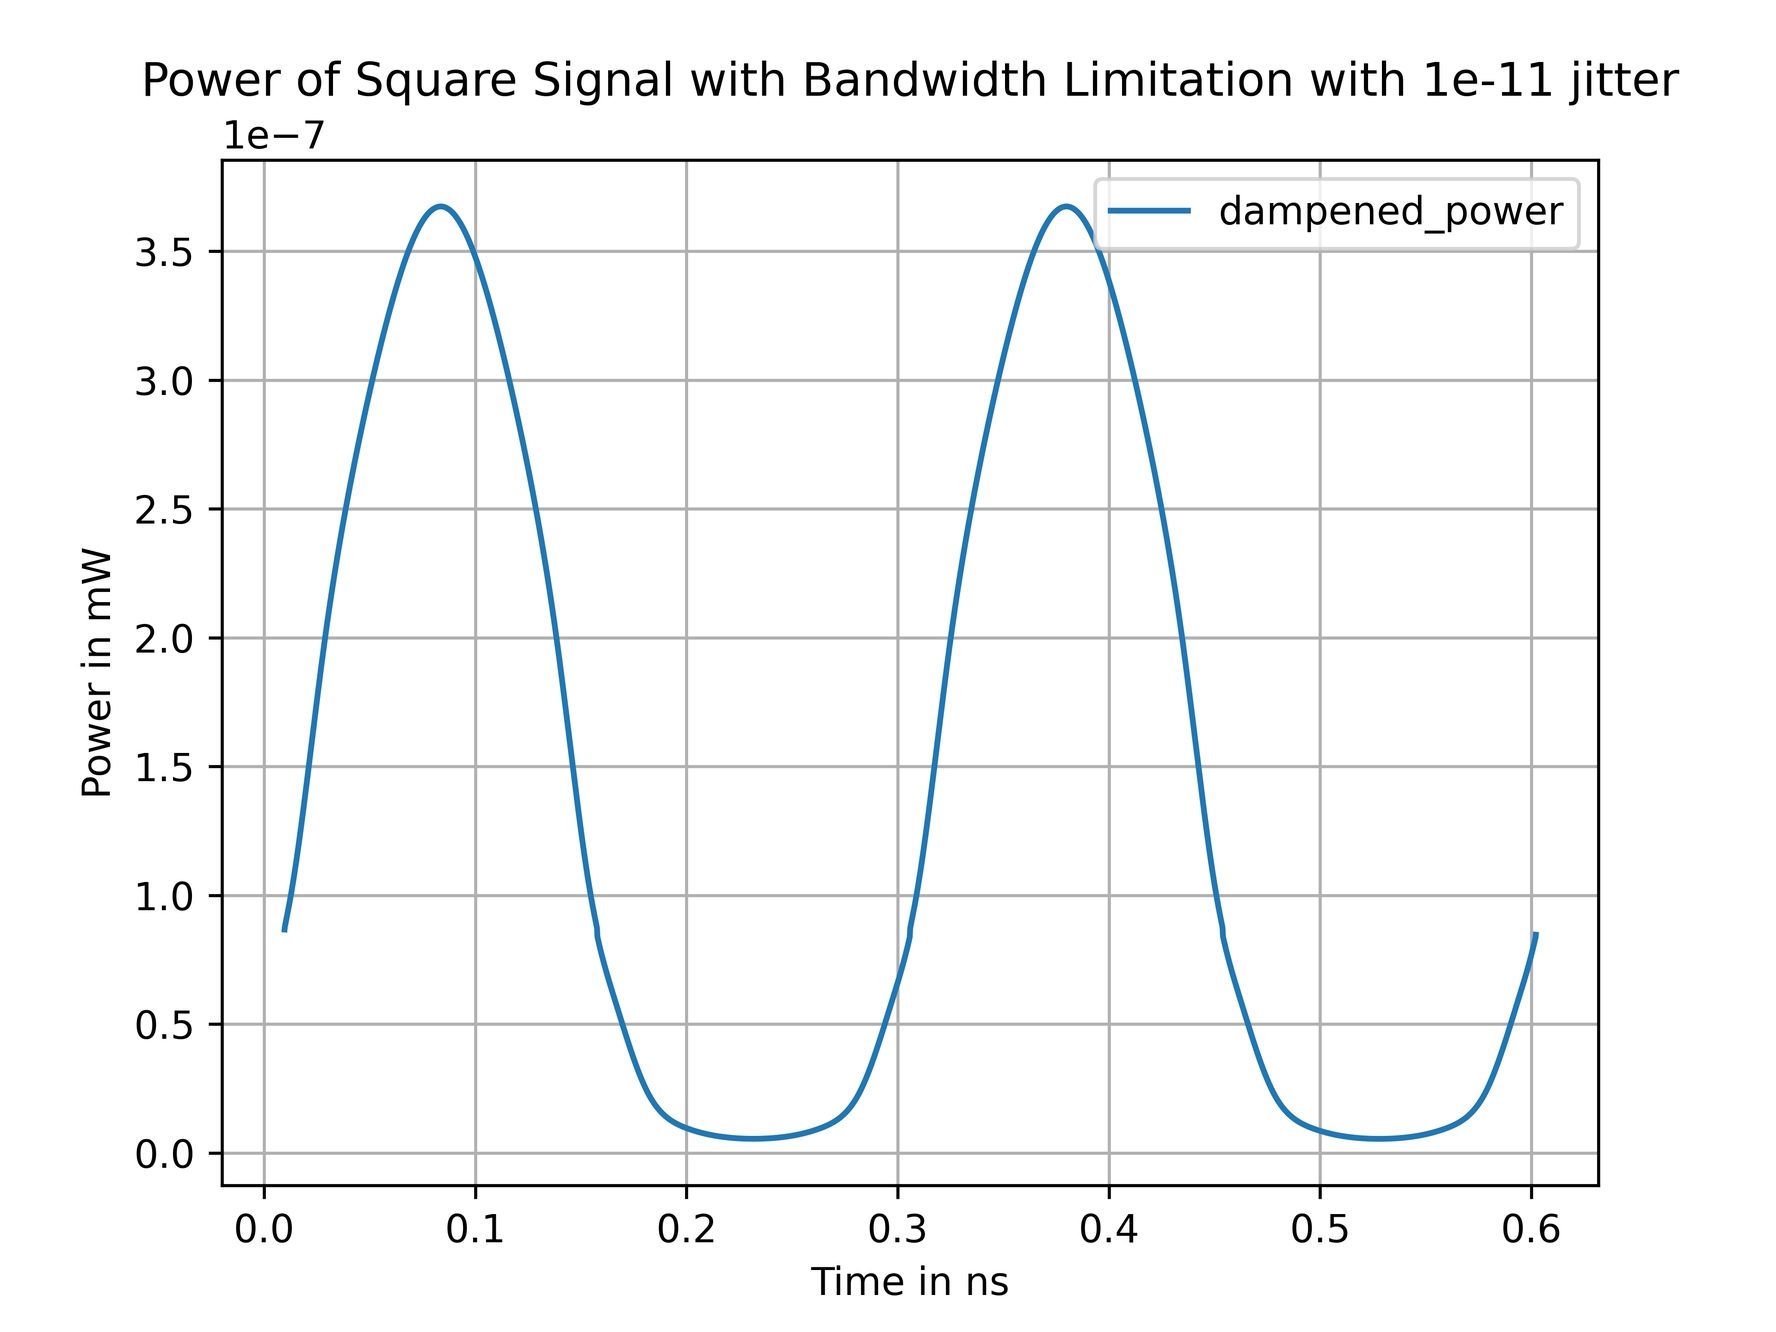
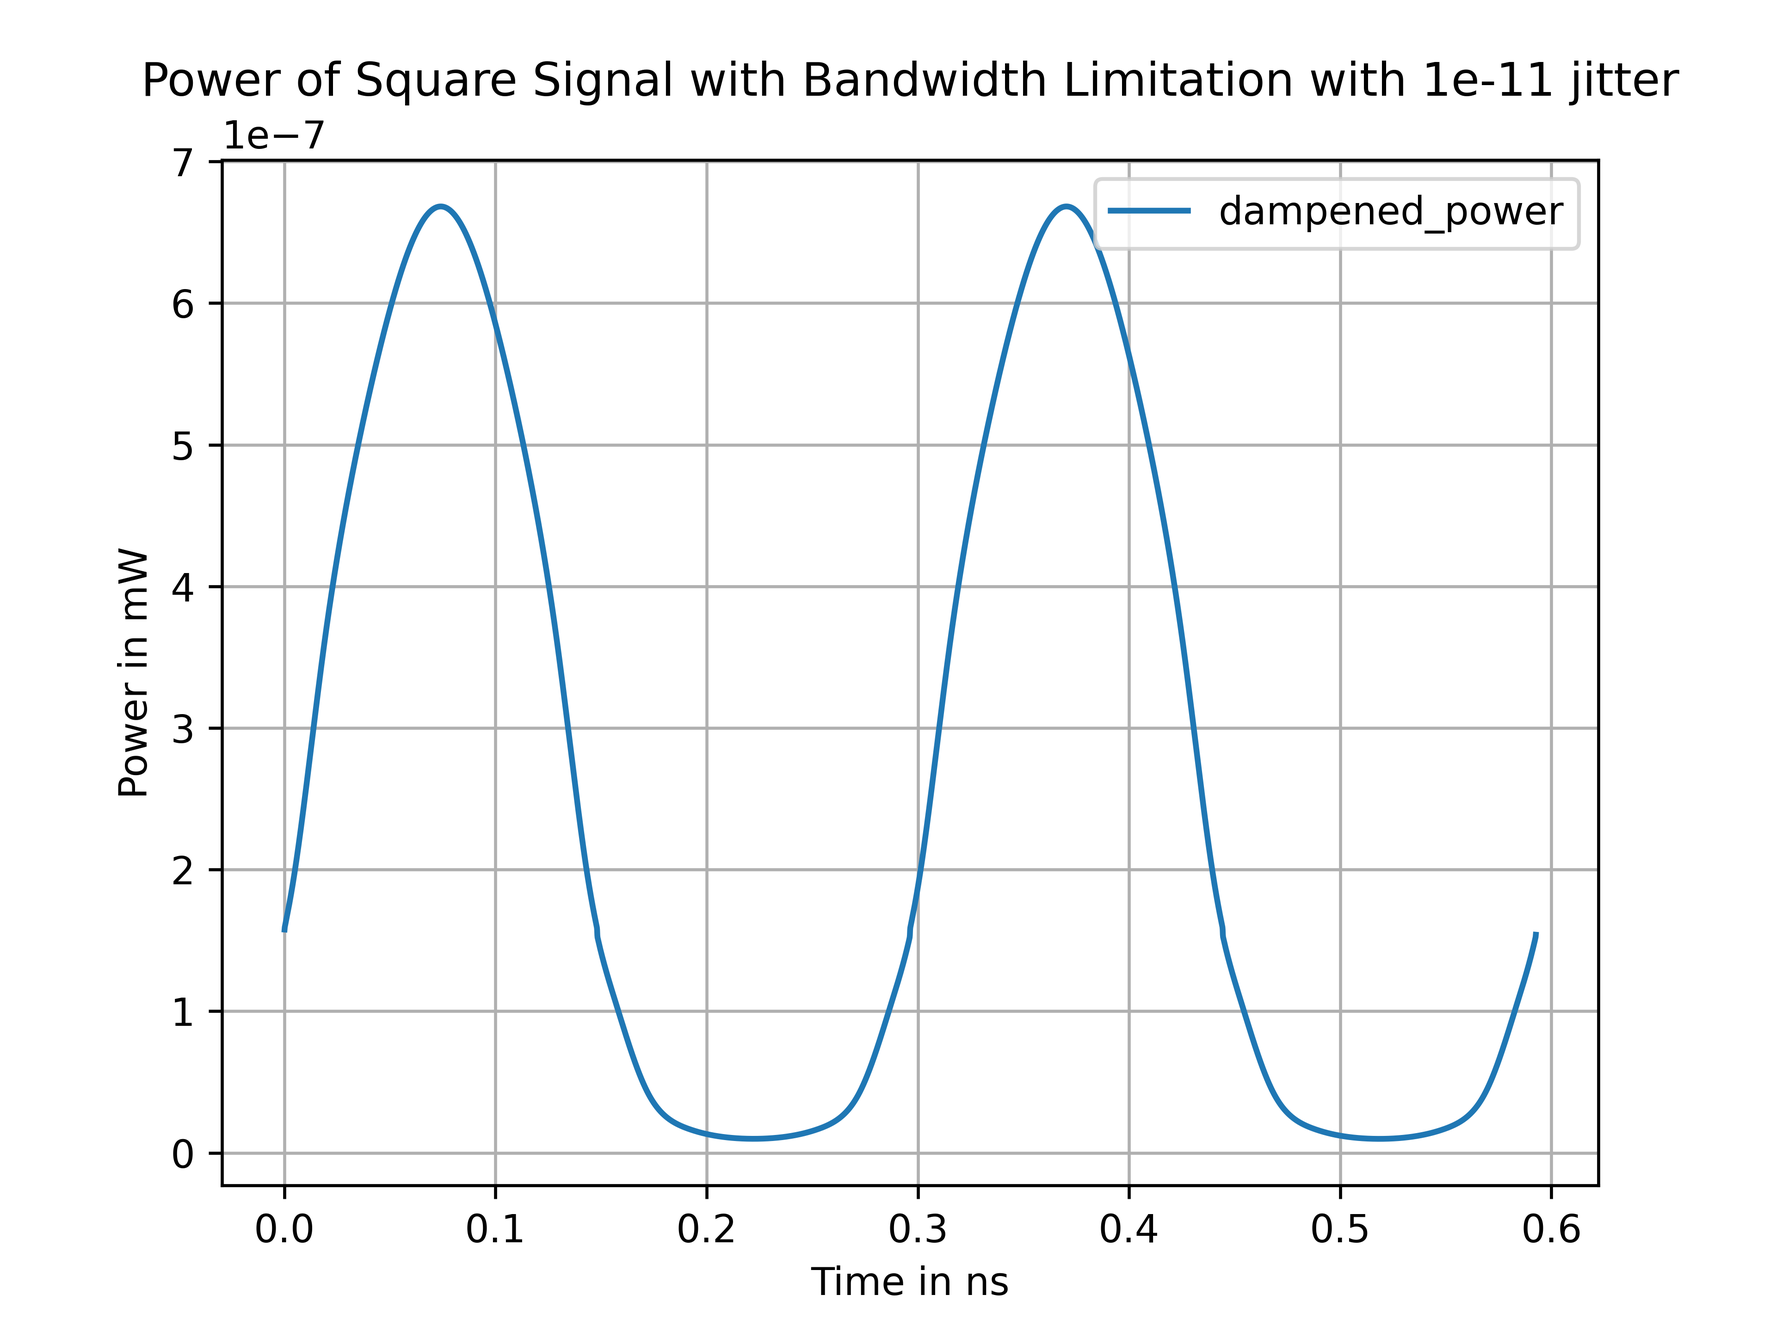
immernoch nen problem mit voltage_decoy und den anderen voltages aber neue Klasse funktioniert

diff --git a/code/projektpraktikum_symbol.py b/code/projektpraktikum_symbol.py
@@ -80,7 +80,7 @@ class dataManager:
 class SimulationConfig:
     def __init__(self, data, n_samples=10000, n_pulses=4, mean_voltage=1.0, mean_amplitude=0.08,
                  p_z_alice=0.5, p_z_1=0.5, p_decoy=0.1, freq=6.75e9, jitter=1e-11,voltage_decoy=1.0,
-                 voltage=1.0, voltage_decoy_sup=1.0, voltage_sup=1.0, T1_dampening=1.0, 
+                 voltage=1.0, voltage_decoy_sup=1.0, voltage_sup=1.0, 
                  eam_transmission_TP=-1.0, eam_transmission_HP=0.0, eam_transmission_TP_decoy=-1.0,
                  eam_transmission_HP_decoy=-0.6,
                  mean_photon_nr=0.7, mean_photon_decoy=0.1,
@@ -114,7 +114,6 @@ class SimulationConfig:
         self.voltage_sup = voltage_sup  # Superposition voltage without decoy state
 
         # Transmission settings
-        self.T1_dampening = T1_dampening
         self.eam_transmission_TP = eam_transmission_TP  # Transmission Tiefpunkt (-1V)
         self.eam_transmission_HP = eam_transmission_HP  # Transmission Hochpunkt (0V)
         self.eam_transmission_TP_decoy = eam_transmission_TP_decoy
@@ -125,13 +124,13 @@ class SimulationConfig:
         self.mean_photon_decoy = mean_photon_decoy
     
 class Simulation:
-    def __init__(self, config):
+    def __init__(self, config: SimulationConfig):
         self.config = config
         
 
     def get_interpolated_value(self, x_data, name):
         #calculate tck for which curve
-        tck = self.data.get_data(x_data, name)
+        tck = self.config.data.get_data(x_data, name)
         return splev(x_data, tck)
     
     def random_laser_output_fixed(self, current_power, voltage_shift, current_wavelength):
@@ -213,16 +212,16 @@ class Simulation:
         else:  # Decoy
             return self.config.voltage_decoy_sup if basis == 0 else self.config.voltage_decoy
 
-    def encode_pulse(value):
+    def encode_pulse(self, value):
         """Return a binary pattern for a square pulse based on the given value."""
-        pattern = np.zeros( self.config.n_pulses , dtype=int)
+        pattern = np.zeros(self.config.n_pulses, dtype=int)
         if value == 1:  # "1000"
             pattern[0] = 1
         elif value == 0:  # "0010"
-            pattern[2] = 1
+            pattern[self.config.n_pulses // 2] = 1
         elif value == -1:  # "1010"
             pattern[0] = 1
-            pattern[2] = 1
+            pattern[self.config.n_pulses // 2] = 1
         return pattern
 
     def generate_square_pulse(self, pulse_height, pulse_duration, pattern, sampling_rate_fft):
@@ -241,7 +240,7 @@ class Simulation:
         pattern = self.encode_pulse(value)
         return self.generate_square_pulse(pulse_height, pulse_duration, pattern, sampling_rate_fft)
 
-    def apply_bandwidth_filter(self, signal, cutoff, sampling_rate_fft):
+    def apply_bandwidth_filter(self, signal, sampling_rate_fft, cutoff):
         """Apply a frequency-domain filter to a signal."""
         S_f = fft(signal)
         frequencies = fftfreq(len(signal), d=1 / sampling_rate_fft)
@@ -253,7 +252,7 @@ class Simulation:
 
     def apply_jitter(self, t):
         """Add jitter to the time array."""
-        probabilities, jitter_values = self.data.get_data(x_data=None, name='probabilities')
+        probabilities, jitter_values = self.config.data.get_data(x_data=None, name='probabilities')
         jitter_shift = np.random.choice(jitter_values, p=probabilities)
         return t + jitter_shift
 
@@ -262,18 +261,18 @@ class Simulation:
         pulse_height = self.get_pulse_height(basis, decoy)
         pulse_duration = 1 / self.config.freq
         sampling_rate_fft = 100e11
-        t, signal = self.generate_encoded_pulse(pulse_height, pulse_duration, n_pulses = 4, value, sampling_rate_fft)
-        filtered_signal = self.apply_bandwidth_filter(signal, cutoff=4e9, sampling_rate_fft)
+        t, signal = self.generate_encoded_pulse(pulse_height, pulse_duration, value, sampling_rate_fft)
+        filtered_signal = self.apply_bandwidth_filter(signal, sampling_rate_fft, cutoff=4e9)
         t_jittered = self.apply_jitter(t)
         return filtered_signal, t_jittered
 
-    def eam_transmission_1_mean_photon_number(self, s_filtered_repeating, t_jitter, optical_power, peak_wavelength, basis, value, decoy):
+    def eam_transmission_1_mean_photon_number(self, s_filtered_repeating, t_jitter, optical_power, peak_wavelength, T1_dampening, basis, value, decoy):
         #include the eam_voltage and multiply with calculated optical power from laser
         power = np.empty(len(s_filtered_repeating))
         transmission = np.empty(len(s_filtered_repeating))
         if decoy == 1:
             s_filtered_repeating_non_decoy, _ = self.signal_bandwidth_jitter(basis, value, decoy = 0)
-            decoy = 1
+            decoy = np.array([1])
             voltage_min = np.min(s_filtered_repeating_non_decoy)
             if voltage_min < -0.5:
                 print('voltage_min' +str(voltage_min))
@@ -285,11 +284,11 @@ class Simulation:
             voltage_max = np.max(s_filtered_repeating)
         
         for i in range(len(s_filtered_repeating)):
-            voltage_for_eam_table = (s_filtered_repeating[i]-voltage_min) / (voltage_max - voltage_min) * (self.eam_transmission_HP-self.eam_transmission_TP) + self.eam_transmission_TP 
+            voltage_for_eam_table = (s_filtered_repeating[i]-voltage_min) / (voltage_max - voltage_min) * (self.config.eam_transmission_HP-self.config.eam_transmission_TP) + self.config.eam_transmission_TP 
             transmission[i] = self.get_interpolated_value(voltage_for_eam_table, 'eam_transmission')
             power[i] = transmission[i] * optical_power        
 
-        power_dampened = power / self.T1_dampening
+        power_dampened = power / T1_dampening
         energy_pp = np.trapz(power_dampened, t_jitter)
 
         '''plt.plot(t_jitter * 1e9, power, label = 'after eam') #fehlt optical power
@@ -310,7 +309,7 @@ class Simulation:
         # Define a range of values (e.g., from 0 to an upper bound like mean + 5 standard deviations)
         upper_bound = int(calc_mean_photon_nr + 5 * np.sqrt(calc_mean_photon_nr))
         print('calc_mean_photon_nr: ' ,calc_mean_photon_nr)
-        print('target mean photon number: ', self.mean_photon_nr)
+        print('target mean photon number: ', self.config.mean_photon_nr)
         x = np.arange(0, upper_bound + 1)
 
         # Compute Poisson probabilities
@@ -345,124 +344,118 @@ class Simulation:
         basis, value, decoy = self.generate_alice_choices_fixed(basis = 1, value = 1, decoy = 0)
 
         while upper_limit- lower_limit > tol:
-            self.T1_dampening = (lower_limit + upper_limit) / 2
+            T1_dampening = (lower_limit + upper_limit) / 2
             s_filtered_repeating, t_jitter = self.signal_bandwidth_jitter(basis, value, decoy)
-            _, calc_mean_photon_nr, _, _ = self.eam_transmission_1_mean_photon_number(s_filtered_repeating, t_jitter, optical_power, peak_wavelength, basis, value, decoy)
-            #print('calc_mean_photon_nr: ' + str(calc_mean_photon_nr) + 'with dampening t1_0: ' + str(self.T1_dampening_0))
+            _, calc_mean_photon_nr, _, _ = self.eam_transmission_1_mean_photon_number(s_filtered_repeating, t_jitter, optical_power, peak_wavelength, T1_dampening, basis, value, decoy)
 
             #compare calculated mean with target mean
-            if calc_mean_photon_nr < self.mean_photon_nr:  #!hier kleiner weil durch T1 geteilt wird ! anders als in find_voltage
-                upper_limit = self.T1_dampening #reduce upper bound
+            if calc_mean_photon_nr < self.config.mean_photon_nr:  #!hier kleiner weil durch T1 geteilt wird ! anders als in find_voltage
+                upper_limit = T1_dampening #reduce upper bound
             else:
-                lower_limit = self.T1_dampening #increase lower bound
+                lower_limit = T1_dampening #increase lower bound
 
         #final voltage decoy
-        self.T1_dampening = (lower_limit + upper_limit) / 2
-        return None
-    
-    def find_voltage_decoy(self, lower_limit, upper_limit, tol):
+        T1_dampening = (lower_limit + upper_limit) / 2
+        return T1_dampening
+
+    def _set_voltage(self, optical_power, peak_wavelength, lower_limit, upper_limit, tol, target_mean, voltage_type, T1_dampening, basis, value, decoy):
+        """Helper method to perform binary search and set the voltage."""
+        while upper_limit - lower_limit > tol:
+            voltage = (lower_limit + upper_limit) / 2
+            setattr(self, voltage_type, voltage)
+            s_filtered_repeating, t_jitter = self.signal_bandwidth_jitter(*self.generate_alice_choices_fixed(basis, value, decoy))
+            _, calc_mean_photon_nr, _, _ = self.eam_transmission_1_mean_photon_number(
+                s_filtered_repeating, t_jitter, optical_power, peak_wavelength, T1_dampening, *self.generate_alice_choices_fixed(basis, value, decoy))
+
+            # Compare the calculated mean with the target mean
+            if calc_mean_photon_nr > target_mean:
+                upper_limit = voltage  # Reduce upper bound
+            else:
+                lower_limit = voltage  # Increase lower bound
+
+        # Final voltage assignment
+        return (lower_limit + upper_limit) / 2
+
+    def find_voltage_decoy(self, T1_dampening, lower_limit, upper_limit, tol):
+        """Find the appropriate voltage values for decoy and non-decoy states using binary search."""
+        # Store original limits to reset later
         store_lower_limit = lower_limit
         store_upper_limit = upper_limit
 
-        optical_power, peak_wavelength = self.random_laser_output_fixed('current_power','voltage_shift', 'current_wavelength')
+        # Set the optical power and peak wavelength for the simulation
+        optical_power, peak_wavelength = self.random_laser_output_fixed('current_power', 'voltage_shift', 'current_wavelength')
 
-        # ============
-        # voltage for 111 -> 1000 decoy state with fixed optical_power and peak_wavelength with mean_voltage and mean_amplitude
-        # ============
-        basis, value, decoy = self.generate_alice_choices_fixed(basis = 1, value = 1, decoy = 1)
+        # Find voltage for 111 -> 1000 decoy state
+        self.config.voltage_decoy = self._set_voltage(optical_power, peak_wavelength, lower_limit, upper_limit, tol, 
+                                               self.config.mean_photon_decoy, "voltage_decoy", T1_dampening, 
+                                               basis = 1, value = 1, decoy = 1)
+
+        print('voltage_decoy', self.config.voltage_decoy)
+        # Reset limits for next voltage calculation
+        lower_limit, upper_limit = store_lower_limit, store_upper_limit
+
+        # Find voltage for 000 -> 1010 non-decoy state
+        self.config.voltage_sup = self._set_voltage(optical_power, peak_wavelength, lower_limit, upper_limit, tol, 
+                                             self.config.mean_photon_nr, "voltage_sup", T1_dampening, 
+                                             basis = 0, value = 0, decoy = 0)
+        print('voltage_sup', self.config.voltage_sup)
+
+
+        # Reset limits for next voltage calculation
+        lower_limit, upper_limit = store_lower_limit, store_upper_limit
+
+        # Find voltage for 001 -> 1010 decoy state
+        self.config.voltage_decoy_sup = self._set_voltage(optical_power, peak_wavelength, lower_limit, upper_limit, tol, 
+                                                   self.config.mean_photon_decoy, "voltage_decoy_sup", T1_dampening, 
+                                                   basis = 0, value = 0, decoy = 0)
+        print('voltage_decoy_sup', self.config.voltage_decoy_sup)
+
+        return None
+    
+    def find_voltage_decoy_old(self, lower_limit, upper_limit, tol):
+        basis, value, decoy = self.generate_alice_choices_fixed(basis = 0, value = 0, decoy = 1)
+        optical_power, peak_wavelength = self.random_laser_output('current_power','voltage_shift', 'current_wavelength')
+
         while upper_limit - lower_limit > tol:
-            print('here 1')
-            self.voltage_decoy = (lower_limit + upper_limit) / 2
+            self.config.voltage_decoy = (lower_limit + upper_limit) / 2
             s_filtered_repeating, t_jitter = self.signal_bandwidth_jitter(basis, value, decoy)
             _, calc_mean_photon_nr, _, _ = self.eam_transmission_1_mean_photon_number(s_filtered_repeating, t_jitter, optical_power, peak_wavelength, basis, value, decoy)
             #print('calc_mean_photon_nr: ' + str(calc_mean_photon_nr) + 'with voltage_decoy: ' +str(self.voltage_decoy))
 
             #compare calculated mean with target mean
-            if calc_mean_photon_nr > self.mean_photon_decoy:
-                upper_limit = self.voltage_decoy #reduce upper bound
+            if calc_mean_photon_nr > self.config.mean_photon_decoy:
+                upper_limit = self.config.voltage_decoy #reduce upper bound
             else:
-                lower_limit = self.voltage_decoy #increase lower bound
+                lower_limit = self.config.voltage_decoy #increase lower bound
 
         #final voltage decoy
-        self.voltage_decoy = (lower_limit + upper_limit) / 2
-
-        #reset upper_lim and lower_lim
-        lower_limit = store_lower_limit
-        upper_limit = store_upper_limit
-
-        # ============
-        # voltage for 000 -> 1010 non-decoy state  with fixed optical_power and peak_wavelength with mean_voltage and mean_amplitude
-        # ============
-        basis, value, decoy = self.generate_alice_choices_fixed(basis = 0, value = 0, decoy = 0)
-
-        while upper_limit - lower_limit > tol:
-            print('here 2')
-            self.voltage_sup = (lower_limit + upper_limit) / 2
-            s_filtered_repeating, t_jitter = self.signal_bandwidth_jitter(basis, value, decoy)
-            _, calc_mean_photon_nr, _, _ = self.eam_transmission_1_mean_photon_number(s_filtered_repeating, t_jitter, optical_power, peak_wavelength, basis, value, decoy)
-
-            #compare calculated mean with target mean
-            if calc_mean_photon_nr > self.mean_photon_nr:
-                upper_limit = self.voltage_sup #reduce upper bound
-            else:
-                lower_limit = self.voltage_sup #increase lower bound
-
-        #final voltage decoy
-        self.voltage_sup = (lower_limit + upper_limit) / 2
-
-        #reset upper_lim and lower_lim
-        lower_limit = store_lower_limit
-        upper_limit = store_upper_limit
-
-        # ============
-        # voltage for 001 -> 1010 decoy state  with fixed optical_power and peak_wavelength with mean_voltage and mean_amplitude
-        # ===========
-        basis, value, decoy = self.generate_alice_choices_fixed(basis = 0, value = 0, decoy = 1)
-
-        while upper_limit - lower_limit > tol:
-            print('here 3')
-            print('upper', upper_limit)
-            print('lower', lower_limit)
-            self.voltage_decoy_sup = (lower_limit + upper_limit) / 2
-            print(self.voltage_decoy_sup)
-            s_filtered_repeating, t_jitter = self.signal_bandwidth_jitter(basis, value, decoy)
-            _, calc_mean_photon_nr, _, _ = self.eam_transmission_1_mean_photon_number(s_filtered_repeating, t_jitter, optical_power, peak_wavelength, basis, value, decoy)
-
-            #compare calculated mean with target mean
-            if calc_mean_photon_nr > self.mean_photon_decoy:
-                upper_limit = self.voltage_decoy_sup #reduce upper bound
-            else:
-                lower_limit = self.voltage_decoy_sup #increase lower bound
-
-        #final voltage decoy
-        self.voltage_decoy_sup = (lower_limit + upper_limit) / 2
-
+        self.config.voltage_decoy = (lower_limit + upper_limit) / 2
         return None
     
     def initialize(self):
         #calculate T1 dampening 
-        self.find_T1(lower_limit = 0, upper_limit = 100, tol = 1e-3)
-        print('T1_dampening at initialize end: ' +str(self.T1_dampening))
-        T1_dampening_in_dB = 10* np.log(1/self.T1_dampening) 
+        T1_dampening = self.find_T1(lower_limit = 0, upper_limit = 100, tol = 1e-3)
+        print('T1_dampening at initialize end: ' +str(T1_dampening))
+        T1_dampening_in_dB = 10* np.log(1/T1_dampening) 
         print('T1_dampening at initialize end in dB: ' + str(T1_dampening_in_dB))
 
         #with simulated decoy state: calculate decoy height
-        self.find_voltage_decoy(lower_limit=0, upper_limit=2, tol=1e-7)
-        print('Voltage_decoy at initialize end' + str(self.voltage_decoy))
-        print('Voltage_decoy_sup at initialize end' + str(self.voltage_decoy_sup))
-        print('Voltage_sup at initialize end' + str(self.voltage_sup))
+        self.find_voltage_decoy(T1_dampening, lower_limit=0, upper_limit=100, tol=1e-7, )
+        print('Voltage_decoy at initialize end' + str(self.config.voltage_decoy))
+        print('Voltage_decoy_sup at initialize end' + str(self.config.voltage_decoy_sup))
+        print('Voltage_sup at initialize end' + str(self.config.voltage_sup))
 
 
 
-        return None
+        return T1_dampening
     
-    def run_simultation(self):
+    def run_simulation(self):
         
-        self.initialize()
+        T1_dampening = self.initialize()
         optical_power, peak_wavelength = self.random_laser_output('current_power','voltage_shift', 'current_wavelength')
         basis, value, decoy = self.generate_alice_choices_fixed(basis = 0, value = 0, decoy = 0)   #11: 1000, 10: 0010, 00: 1010
         s_filtered_repeating, t_jitter = self.signal_bandwidth_jitter(basis, value, decoy)
-        power_dampened, calc_mean_photon_nr, energy_pp, transmission = self.eam_transmission_1_mean_photon_number(s_filtered_repeating, t_jitter, optical_power, peak_wavelength, basis, value, decoy)    
+        power_dampened, calc_mean_photon_nr, energy_pp, transmission = self.eam_transmission_1_mean_photon_number(s_filtered_repeating, t_jitter, optical_power, peak_wavelength, T1_dampening, basis, value, decoy)    
         wavelength_photons, time_photons = self.eam_transmission_2_choose_photons(calc_mean_photon_nr, energy_pp, transmission, t_jitter)
         print(f"wavelength photons: {wavelength_photons}, time photons: {time_photons}")
 
@@ -506,19 +499,24 @@ database.add_data('data/eam_transmission_data.csv', 'Voltage (V)', 'Transmission
 database.add_jitter(jitter = 1e-11)
 
 #create simulation
-config = PulseConfig(n_pulses=6, pulse_duration=0.02)
-simulation = Simulation(database)   
+config = SimulationConfig(database, n_samples=10000, n_pulses=4, mean_voltage=1.0, mean_amplitude=0.08,
+                 p_z_alice=0.5, p_z_1=0.5, p_decoy=0.1, freq=6.75e9, jitter=1e-11,voltage_decoy=1.0,
+                 voltage=1.0, voltage_decoy_sup=1.0, voltage_sup=1.0, 
+                 eam_transmission_TP=-1.0, eam_transmission_HP=0.0, eam_transmission_TP_decoy=-1.0,
+                 eam_transmission_HP_decoy=-0.6,
+                 mean_photon_nr=0.7, mean_photon_decoy=0.1)
+simulation = Simulation(config)   
+
+#plot results
+simulation.run_simulation()
 
 end_time = time.time()  # Record end time
 execution_time = end_time - start_time  # Calculate execution time
-print(f"Execution time: {execution_time:.9f} seconds for {simulation.n_samples} samples")
-
-#plot results
-simulation.run_simultation()
+print(f"Execution time: {execution_time:.9f} seconds for {config.n_samples} samples")
 
 end_time_2 = time.time()  # Record end time
 execution_time_2 = end_time_2 - start_time  # Calculate execution time
-print(f"Execution time after writing in Array: {execution_time_2:.9f} seconds for {simulation.n_samples} samples")
+print(f"Execution time after writing in Array: {execution_time_2:.9f} seconds for {simulation.config.n_samples} samples")
 
 '''x = np.linspace(0, simulation.n_pulses // simulation.symbol_length -1, simulation.n_pulses // simulation.symbol_length)
 plt.hist(all_jitter * 1e12, bins=30, label='jitter', alpha=0.7)
